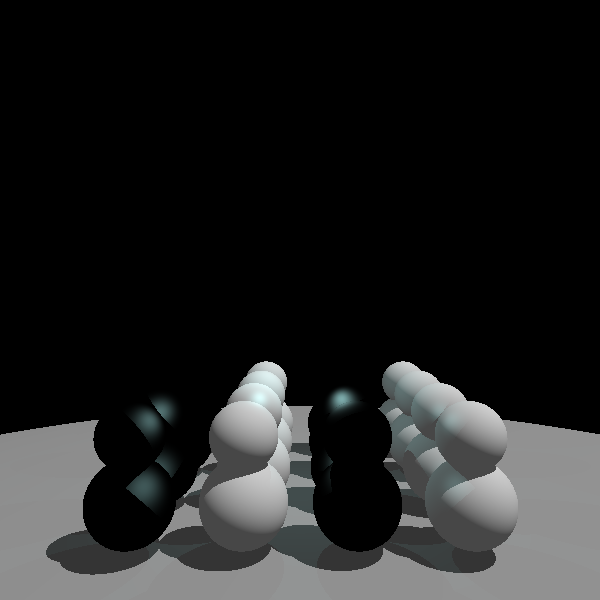
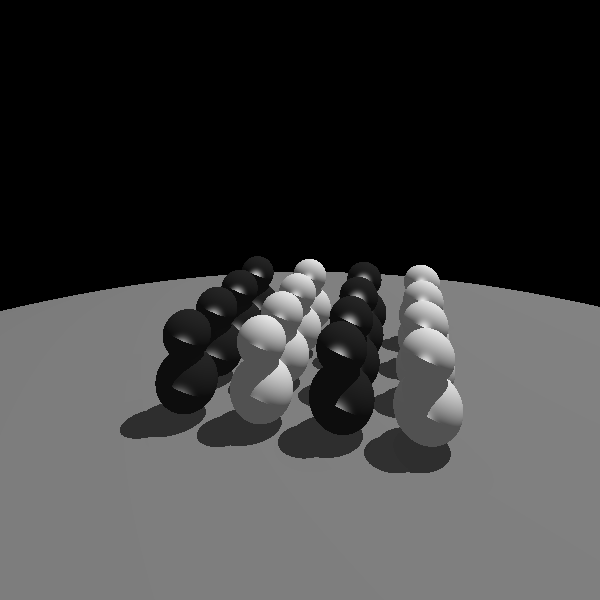
4.1

diff --git a/src/tools/SimpleRayTracer.java b/src/tools/SimpleRayTracer.java
@@ -5,6 +5,7 @@ import tools.Color;
 import tools.Hit;
 import tools.Lichtquelle;
 import tools.Ray;
+import tools.Shape;
 import tools.SimpleCamera;
 import tools.Vec2;
 import tools.Vec3;
@@ -80,16 +81,15 @@ public class SimpleRayTracer {
         Vec3 n = hit.normal().normalize();  // 法向量归一
         Color objColor = hit.color();  // 物体颜色
 
-        // 1. 环境光
-        float ambientStrength = 0.06f;
+        // 环境光
+        float ambientStrength = 0.08f;
         Color ambient = objColor.multiply(ambientStrength);
 
-        // 漫反射
+        // 漫反射 + 镜面反射
         Color diffuseTotal = Color.black();
-        // 镜面反射总和
         Color specularTotal = Color.black();
 
-        // 2. 遍历所有光源
+        // 遍历所有光源
         for (Lichtquelle licht : lichtquelle) {
             // 检测阴影：被遮挡则跳过该光源
             if (isInShadow(p, n, licht)) {
@@ -102,7 +102,7 @@ public class SimpleRayTracer {
 
             // 3. 漫反射（兰伯特定律）
             double dotPktDiffus = Math.max(0, n.dot(l));  // 避免背面受光
-            float diffuseStrength = 0.8f;
+            float diffuseStrength = 0.7f;
             Color diffuse = objColor
                 .multiply(diffuseStrength * (float) dotPktDiffus)
                 .multiplyWithColor(lightIntensity);
@@ -110,26 +110,24 @@ public class SimpleRayTracer {
 
             
             // 4. Spiegelnder Term
-            if(licht.isPunktlicht()){
-                Vec3 richtungLichtquelle = l;  // 光源方向
-                Vec3 normale = n; //表面法向量
-                Vec3 einfallsRichtung = richtungLichtquelle.multiply(-1);  // 入射方向
-                Vec3 r = reflect(einfallsRichtung, normale).normalize(); // 反射方向
-                Vec3 blickRichtung = camera.position().subtract(p).normalize(); // 视线方向
-                Color ankommendeIntensitaet = licht.einfallend(p);   //入射光强
-                Color spiegelnderReflexionskoeffizient = new Color(1,1,1);    //镜面反射系数
-                float spiegelungsStaerke = 1.3f;  // 镜面反射强度
-                double glanzExponent = 20;    //高光指数（越大越集中）
+            if (!licht.isPunktlicht()) {
+            Vec3 einfallsRichtung = l.multiply(-1).normalize();  // 入射方向
+            Vec3 r = reflect(einfallsRichtung, n).normalize(); // 反射方向
+            Vec3 blickRichtung = camera.position().subtract(p).normalize(); // 视线方向
+
+            // Color ankommendeIntensitaet = licht.einfallend(p);   //入射光强
+            Color spiegelnderReflexionskoeffizient = new Color(1.0,1.0,1.0);    //镜面反射系数
+            float spiegelungsStaerke = 0.8f;  // 镜面反射强度
+            double glanzExponent = 30;    //高光指数（越大越集中）
                 
 
-                double dotPkt = Math.max(0, r.dot(blickRichtung));  // 反射方向与视线夹角
-                Color spiegelnderTerm = ankommendeIntensitaet
-                    .multiply(spiegelungsStaerke)
-                    .multiply((float) Math.pow(dotPkt, glanzExponent))
-                    .multiplyWithColor(spiegelnderReflexionskoeffizient);
-                specularTotal = specularTotal.add(spiegelnderTerm);
+            double dotPkt = Math.max(0, r.dot(blickRichtung));  // 反射方向与视线夹角
+            Color spiegelnderTerm = lightIntensity
+                .multiply(spiegelungsStaerke)
+                .multiply((float) Math.pow(dotPkt, glanzExponent))
+                .multiplyWithColor(spiegelnderReflexionskoeffizient);
+            specularTotal = specularTotal.add(spiegelnderTerm);    
             }
-            
         }
 
         // 5. 最终颜色合成

diff --git a/src/tools/SimpleCamera.java b/src/tools/SimpleCamera.java
@@ -10,6 +10,10 @@ public class SimpleCamera {
     private final int height;    // 图像高度
     private final double d;      // 成像平面距离
     private final Vec3 position; // 相机位置（成员变量）
+    private final Vec3 forward;
+    private final Vec3 right;
+    private final Vec3 up;
+    
 
     // 初始化相机参数，包括位置
     public SimpleCamera(double alpha, int width, int height, Vec3 position) {
@@ -18,20 +22,45 @@ public class SimpleCamera {
         this.height = height;
         this.d = (width / 2.0) / Math.tan(alpha / 2.0); // 计算成像平面距离
         this.position = position; // 初始化相机位置（关键：保存传入的位置）
+
+        // 默认朝向：沿-Z轴（和原有逻辑一致）
+        this.forward = new Vec3(0, 0, -1).normalize();
+        this.right = new Vec3(1, 0, 0).normalize(); // 右向为+X
+        this.up = new Vec3(0, 1, 0).normalize();    // 上向为+Y
     }
+
+    // 构造方法2: 支持自定义朝向（平移+旋转）
+    public SimpleCamera(double alpha, int width, int height, Vec3 position, Vec3 forwardDir) {
+        this.alpha = alpha;
+        this.width = width;
+        this.height = height;
+        this.d = (width / 2.0) / Math.tan(alpha / 2.0);
+        this.position = position;
+        
+        // 直接使用传入的前向向量（已归一化）
+        this.forward = forwardDir.normalize();
+        // 简化：右向=前向的XZ平面垂直方向，上向固定为+Y（足够满足基础旋转需求）
+        this.right = new Vec3(-this.forward.z(), 0, this.forward.x()).normalize();
+        this.up = new Vec3(0, 1, 0).normalize();
+    }
+
 
     // 生成从相机到像素的射线
     public Ray generateRay(Vec2 pixel) {
         // 将像素坐标转换为成像平面的3D坐标（原点在图像中心）
         double x3d = pixel.x() - width / 2.0;   // X偏移（左负右正）
         double y3d = -(pixel.y() - height / 2.0); // Y偏移（上正下负，注意负号）
-        double z3d = -d;                        // Z轴指向场景（负方向）
+    
 
-        // 射线方向：从相机位置指向成像平面上的点（归一化）
-        Vec3 direction = new Vec3(x3d, y3d, z3d).normalize();
+        // 2. 核心：将成像平面偏移转换为世界坐标系的方向（支持旋转）
+        Vec3 dir = right.multiply(x3d)       // 右向偏移
+                        .add(up.multiply(y3d)) // 上向偏移
+                        .add(forward.multiply(-d)) // 前向（朝向）偏移
+                        .normalize(); // 归一化
+        
 
         // 射线原点为相机位置（修正：使用this.position，而非cameraPosition）
-        return new Ray(position, direction, 0.001, Double.POSITIVE_INFINITY);
+        return new Ray(position, dir, 0.001, Double.POSITIVE_INFINITY);
     }
 
     // 获取相机位置（供SimpleRayTracer使用）

diff --git a/src/cgg/A04.java b/src/cgg/A04.java
@@ -17,17 +17,20 @@ import tools.Vec3;
 public class A04 {
     
     public static void main(String[] args){
-        Vec3 cameraPos = new Vec3(0,10,7);  //Y越大越高，Z越负越远
-        SimpleCamera camera = new SimpleCamera(Math.PI / 3, 600, 600, cameraPos);
+
+
+        Vec3 cameraPos = new Vec3(6,16,-55);  // 平移，Y越大越高，Z越负越远
+        Vec3 cameraTarget = new Vec3(4,6, -18); // 看向场景中心
+
+        SimpleCamera camera = new SimpleCamera(Math.PI / 3, 600, 600, cameraPos, cameraTarget);
 
         List<Shape> scene = new ArrayList<>();
-
         List<Shape> snowmen = createSnowmanGrid(4, 4); 
         scene.addAll(snowmen);
 
         Vec3 planeCenter = new Vec3(0,-200,-22); //球心位置
         double planeRadius = 200;   //球心半径
-        Color planeColor = new Color(0.5, 0.5, 0.5);
+        Color planeColor = new Color(0.3, 0.3, 0.3);
         double planeYMin = 5;  
         Plane groundPlane = new Plane(planeCenter, planeRadius, planeColor, planeYMin);
         scene.add(groundPlane); // 地面加入场景
@@ -39,13 +42,13 @@ public class A04 {
         List<Lichtquelle> lichtquellen = new ArrayList<>();  // 创建光源列表
         
         // 5.1 添加方向光源（太阳光）
-        Vec3 lichtRichtung = new Vec3(-5, -11, -2).normalize();  // 光源方向
-        Color lichtIntensitaet = new Color(0.7f, 0.7f, 0.7f);   
+        Vec3 lichtRichtung = new Vec3(-3, -8, -2).normalize();  // 光源方向
+        Color lichtIntensitaet = new Color(1f, 1f, 1f);   
         lichtquellen.add(Lichtquelle.createRichtungslicht(lichtRichtung, lichtIntensitaet));
         
         // 5.2 添加点光源（灯泡，在场景上方）
-        Vec3 punktLichtPos = new Vec3(0, 10, -20);  // 点光源位置（球体上方）
-        Color punktLichtIntens = new Color(5, 10, 10); 
+        Vec3 punktLichtPos = new Vec3(5, 15, -25);  // 点光源位置（球体上方）
+        Color punktLichtIntens = new Color(2, 2, 2); 
         lichtquellen.add(Lichtquelle.createPunktlicht(punktLichtPos, punktLichtIntens));
 
         // 6. 光线追踪（传入光源列表）
@@ -109,7 +112,7 @@ private static Group createSnowman(Vec3 baseCenter, double baseRadius, Color col
                 Vec3 baseCenter = new Vec3(x, yPos, z);
 
                 // 按列设置颜色（偶数列黑，奇数列白）
-                Color color = (col % 2 == 0) ? new Color(0,0,0) : new Color(1,1,1);
+                Color color = (col % 2 == 0) ? new Color(0.02,0.02,0.02) : new Color(1,1,1);
                 // 创建雪人组并添加到列表
                 Group snowman = createSnowman(baseCenter, baseRadius, color);
                 shapes.add(snowman);
